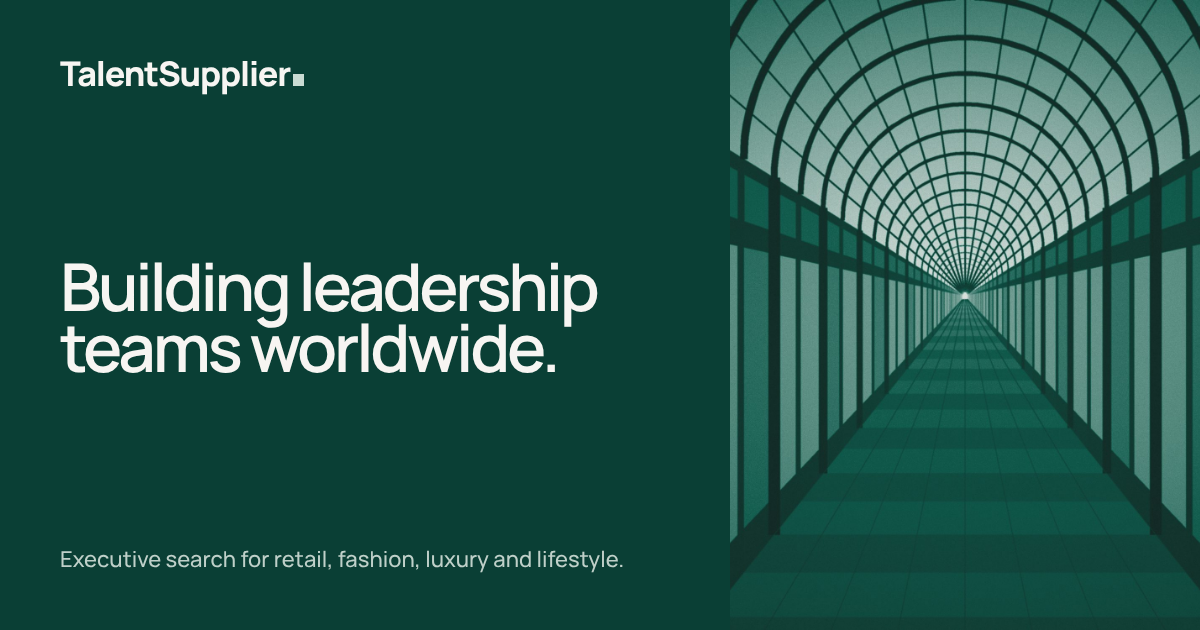
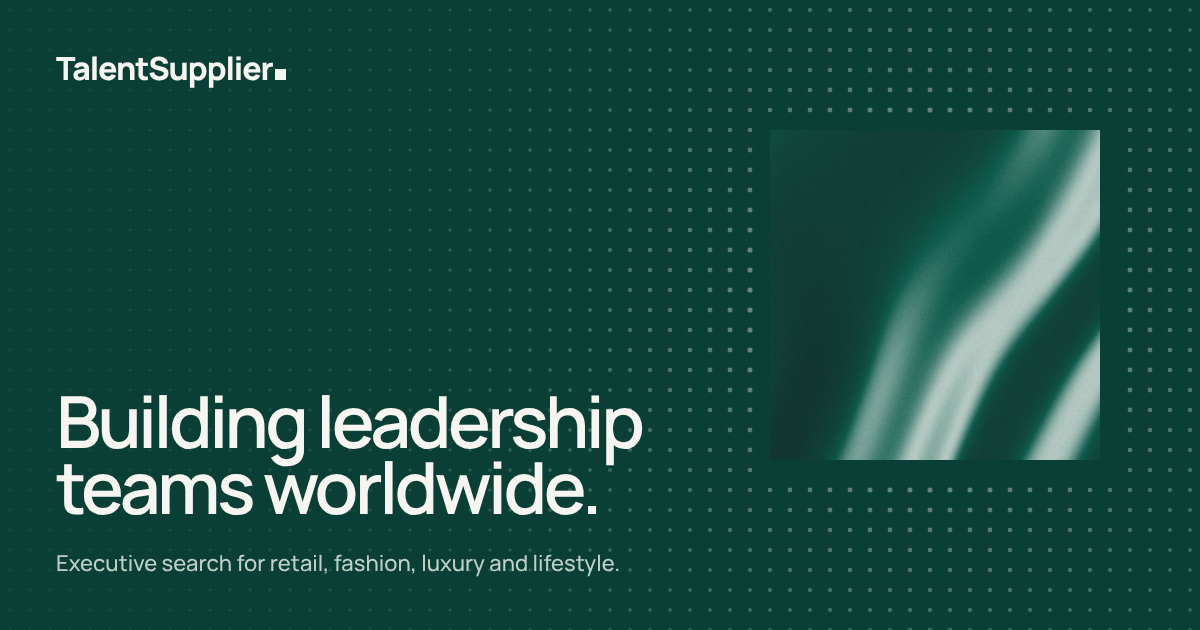
Hero: the market as a living field, one window that changes with every search; retire Arcade
- Hero panel is now the identity in motion: a field of points with a halo around the window,
  a search pulse every 5.2s, a pointer lens; the window opens onto Silk and rotates renders
- Arcade removed from the site (process tile, industries, services, insights, close row) and the OG card

Claude-Session: https://claude.ai/code/session_01Ls1K6zc5qZk9mayAcS37Nh

diff --git a/index.html b/index.html
@@ -20,23 +20,30 @@
 <link rel="preload" href="assets/fonts/manrope-latin-600-normal.woff2" as="font" type="font/woff2" crossorigin>
 <link rel="stylesheet" href="assets/site.css">
 <script>document.documentElement.classList.add('js')</script>
-<link rel="preload" href="assets/img/arcade-loop-poster.jpg" as="image">
+<link rel="preload" href="assets/img/silk-loop-poster.jpg" as="image">
 <script src="assets/map-data.js" defer></script>
 <style>
 /* ---------- hero: the view, and a column of chapters beside it ---------- */
 .hero{height:100svh;min-height:620px;display:grid;grid-template-columns:repeat(12,minmax(0,1fr));gap:10px;padding:10px}
-.hero .panel{grid-column:1/11;position:relative;overflow:hidden;background:var(--green);color:var(--on-dark);display:flex;flex-direction:column;justify-content:space-between;padding:26px 28px 32px}
-.hero .panel>video{position:absolute;inset:0;width:100%;height:100%;object-fit:cover;transform:scale(1.04);animation:drift 24s var(--ease-io) infinite alternate}
-@keyframes drift{to{transform:scale(1.12) translateY(-1.5%)}}
-.hero .panel::before{content:"";position:absolute;inset:0;background:rgba(8,26,22,.3);z-index:1;pointer-events:none}
-.hero .panel>*:not(video){position:relative;z-index:2}
+.hero .panel{grid-column:1/11;position:relative;overflow:hidden;background:var(--deep);color:var(--on-dark);display:flex;flex-direction:column;padding:26px 28px 32px}
+.hero .hfield{position:absolute;inset:0;width:100%;height:100%}
+.hero .panel>*:not(.hfield){position:relative;z-index:2}
 .hero .top{display:flex;justify-content:space-between;align-items:center}
 .hero .wm{font-size:20px}
 .hero .wm i{background:var(--paper)}
 .hero .clock{font-size:15px;font-weight:500;opacity:.85}
-.hero h1{font-size:clamp(44px,7.6vw,140px);letter-spacing:-.052em;line-height:.9;margin-top:-6vh}
+.hero .win{position:absolute!important;right:28px;top:84px;width:min(38%,52vh);aspect-ratio:1;margin:0;z-index:2}
+.hero .win .pane{position:absolute;inset:0;overflow:hidden;background:var(--green);transform-origin:50% 50%}
+.hero .win video,.hero .win img{position:absolute;inset:0;width:100%;height:100%;object-fit:cover;opacity:0;transform:scale(1.12);transition:opacity 1.2s var(--ease-io),transform 5.2s linear}
+.hero .win .on{opacity:1;transform:scale(1.02)}
+.hero .win figcaption{position:absolute;left:12px;top:10px;color:var(--paper);white-space:nowrap;z-index:2}
+.js .hero .win .pane{transform:scale(.025);transition:transform 1.5s var(--ease-io)}
+.js .hero .win figcaption{opacity:0;transition:opacity .8s .9s}
+.js .hero.open .win .pane{transform:none}
+.js .hero.open .win figcaption{opacity:1}
+.hero h1{font-size:clamp(44px,7.6vw,140px);letter-spacing:-.052em;line-height:.9;margin-top:auto}
 .hero h1 .ln{display:block;white-space:nowrap}
-.hero .pfoot{display:flex;justify-content:space-between;align-items:end;gap:32px}
+.hero .pfoot{display:flex;justify-content:space-between;align-items:end;gap:32px;margin-top:clamp(28px,5vh,56px)}
 .hero .pfoot p{max-width:30ch;font-size:18px;line-height:1.4;font-weight:500}
 .swatch{grid-column:11/13;display:grid;grid-template-rows:repeat(5,1fr);gap:0}
 .swatch a{display:flex;flex-direction:column;justify-content:space-between;padding:18px 18px 16px;text-decoration:none;position:relative;overflow:hidden}
@@ -53,8 +60,10 @@
 @keyframes drop{from{clip-path:inset(0 0 100% 0)}to{clip-path:inset(0)}}
 @media (max-width:900px){
   .hero{height:auto;min-height:0;display:block;padding:8px}
-  .hero .panel{height:68svh;min-height:440px;padding:18px 18px 22px}
-  .hero h1{font-size:clamp(34px,10.6vw,72px);margin-top:0}
+  .hero .panel{height:72svh;min-height:500px;padding:18px 18px 22px}
+  .hero .win{right:18px;top:64px;width:46%}
+  .hero .win .rf{display:none}
+  .hero h1{font-size:clamp(34px,10.6vw,72px)}
   .hero .pfoot{display:block}.hero .pfoot p{font-size:17px;margin-bottom:18px}
   .hero .pfoot .btn{width:100%}
   .swatch{display:block}
@@ -209,11 +218,19 @@
 <main id="main">
 <section class="hero" id="hero" data-c="paper" aria-label="Introduction">
   <div class="panel">
-    <video autoplay muted loop playsinline preload="auto" poster="assets/img/arcade-loop-poster.jpg" width="1280" height="800" aria-label="Moving slowly through a glass-roofed shopping arcade, shop windows lit on both sides"><source src="assets/video/arcade-loop.mp4" type="video/mp4"></video>
+    <canvas class="hfield" id="heroField" aria-hidden="true"></canvas>
     <div class="top">
       <a class="wm" href="index.html" aria-label="TalentSupplier, home">TalentSupplier<i aria-hidden="true"></i></a>
       <span class="clock tab" data-clock aria-hidden="true">Madrid</span>
     </div>
+    <figure class="win" id="heroWin"><div class="pane">
+      <video class="on" data-name="Silk" autoplay muted loop playsinline preload="auto" poster="assets/img/silk-loop-poster.jpg" width="1280" height="800" aria-label="Green silk moving slowly in the light, seen through a square window"><source src="assets/video/silk-loop.mp4" type="video/mp4"></video>
+      <img data-name="Vitrine" src="assets/img/vitrine.jpg" width="1200" height="1440" alt="" loading="lazy">
+      <img data-name="Curtain" src="assets/img/curtain.jpg" width="1200" height="1440" alt="" loading="lazy">
+      <img data-name="Marble" src="assets/img/marble.jpg" width="1800" height="1200" alt="" loading="lazy">
+      <img data-name="Herringbone" src="assets/img/herringbone.jpg" width="1800" height="1200" alt="" loading="lazy">
+      <figcaption class="cap"><span id="winName">Silk</span><span class="rf">, rendered for TalentSupplier</span></figcaption>
+    </div></figure>
     <h1><span class="ln">Building leadership</span><span class="ln">teams worldwide.</span></h1>
     <div class="pfoot">
       <p>We find the leaders who are not looking, and approach them in confidence.</p>
@@ -302,7 +319,7 @@
       <h3>Shortlist</h3><p>Assessed for experience, leadership, motivation and culture. Interviews, references and the offer, supported.</p>
     </div>
     <div class="st rv" style="--i:3">
-      <div class="tile c-ink"><canvas class="fld" data-n="520" data-keep="1" data-win=".74" data-at=".5,.5" data-dot="#F7F5F2" data-one="#0F5C4D" data-img="assets/img/arcade.jpg" data-seed="6" data-dur="2400" aria-hidden="true"></canvas></div>
+      <div class="tile c-ink"><canvas class="fld" data-n="520" data-keep="1" data-win=".74" data-at=".5,.5" data-dot="#F7F5F2" data-one="#0F5C4D" data-img="assets/img/vitrine.jpg" data-seed="6" data-dur="2400" aria-hidden="true"></canvas></div>
       <h3>Appoint</h3><p>One leader in the role, and our support through integration and beyond.</p>
     </div>
   </div>
@@ -347,7 +364,7 @@
 </section>
 
 <section class="act-row" data-c="paper" aria-labelledby="closeTitle">
-  <div class="fl ph"><video autoplay muted loop playsinline preload="none" poster="assets/img/silk-loop-poster.jpg" width="1280" height="800" aria-hidden="true"><source src="assets/video/silk-loop.mp4" type="video/mp4"></video></div>
+  <div class="fl ph"><img src="assets/img/marble.jpg" width="1800" height="1200" alt="" loading="lazy"></div>
   <div class="mid c-green">
     <h2 id="closeTitle" class="rv">Your next leader is not looking.</h2>
     <div class="row">

diff --git a/assets/site.js b/assets/site.js
@@ -122,6 +122,54 @@
   }
   $$('canvas.fld').forEach(function(cv){var f=new Field(cv); if(io){io.observe(cv);} });
 
+  /* ---------- the hero: the market as a living field; one point opens into the window ----------
+     Points arrive in a wave from the window, settle into a halo around it, and a search pulse
+     leaves the window every few seconds. The pointer is a lens: points near it wake up. */
+  var hf=$('#heroField'), hero=$('#hero'), hw=$('#heroWin');
+  if(hf&&hero&&hw){
+    var hc=hf.getContext('2d'), HW=0,HH=0,hd=1, P=[], wx=0,wy=0,wr=null, mx=-1e4,my=-1e4, t0=performance.now(), live=true, raf2=0;
+    function hbuild(){
+      var r=hf.getBoundingClientRect(); HW=r.width; HH=r.height; hd=Math.min(2,devicePixelRatio||1);
+      hf.width=Math.round(HW*hd); hf.height=Math.round(HH*hd);
+      var pr=hero.querySelector('.panel').getBoundingClientRect(), b=hw.getBoundingClientRect();
+      wr={x:b.left-pr.left,y:b.top-pr.top,w:b.width,h:b.height}; wx=wr.x+wr.w/2; wy=wr.y+wr.h/2;
+      var s=HW<700?15:19, cols=Math.ceil(HW/s), rows=Math.ceil(HH/s), maxd=Math.hypot(Math.max(wx,HW-wx),Math.max(wy,HH-wy));
+      P=[]; for(var y=0;y<rows;y++)for(var x=0;x<cols;x++){var px=(x+.5)*s,py=(y+.5)*s;
+        if(px>wr.x-6&&px<wr.x+wr.w+6&&py>wr.y-6&&py<wr.y+wr.h+6) continue;
+        var dd=Math.hypot(px-wx,py-wy)/maxd; P.push({x:px,y:py,d:dd,j:Math.random()});}
+      hs=s;
+    }
+    var hs=19;
+    function hdraw(now){
+      var t=(now-t0)/1000; hc.setTransform(hd,0,0,hd,0,0); hc.clearRect(0,0,HW,HH);
+      var wave=reduce?9:t*0.9, pulse=reduce?-1:((t-1.6)%5.2)/5.2*1.25, r0=Math.max(1,hs*.075);
+      hc.fillStyle='#CADBD3';
+      for(var i=0;i<P.length;i++){
+        var p=P[i]; if(p.d>wave) continue;
+        var arrive=Math.min(1,(wave-p.d)*5);
+        var near=Math.pow(1-p.d,3), a=.08+.7*near;              // halo: the search is densest near the one
+        var pd=Math.abs(p.d-pulse); if(pulse>0&&pd<.06) a+=.45*(1-pd/.06);  // the pulse passing
+        var ld=Math.hypot(p.x-mx,p.y-my), lens=ld<140?1-ld/140:0;          // the pointer's lens
+        a=Math.min(.95,a+lens*.6)*arrive;
+        var r=r0*(1+near*1.1+lens*1.3+(arrive<1?(1-arrive)*1.5:0));
+        hc.globalAlpha=a; hc.beginPath(); hc.arc(p.x,p.y,r,0,6.2832); hc.fill();
+      }
+      hc.globalAlpha=1;
+      if(!reduce&&live) raf2=requestAnimationFrame(hdraw);
+    }
+    hbuild();
+    // every pulse is a new search: the window changes what it shows
+    var shots=$$('.pane > video, .pane > img',hw), wn=$('#winName'), si=0;
+    if(!reduce&&shots.length>1){setTimeout(function(){setInterval(function(){if(!live) return; shots[si].classList.remove('on'); si=(si+1)%shots.length; shots[si].classList.add('on'); if(wn) wn.textContent=shots[si].getAttribute('data-name');},5200);},1600);}
+    if(reduce){hero.classList.add('open'); hdraw(performance.now());}
+    else{ raf2=requestAnimationFrame(hdraw); setTimeout(function(){hero.classList.add('open');},900); }
+    hero.addEventListener('pointermove',function(e){var r=hf.getBoundingClientRect(); mx=e.clientX-r.left; my=e.clientY-r.top;});
+    hero.addEventListener('pointerleave',function(){mx=my=-1e4;});
+    addEventListener('resize',function(){hbuild(); if(reduce) hdraw(performance.now());});
+    if('IntersectionObserver' in window&&!reduce){new IntersectionObserver(function(es){live=es[0].isIntersecting&&!document.hidden; cancelAnimationFrame(raf2); if(live) raf2=requestAnimationFrame(hdraw);}).observe(hero);}
+    document.addEventListener('visibilitychange',function(){live=!document.hidden; cancelAnimationFrame(raf2); if(live&&!reduce) raf2=requestAnimationFrame(hdraw);});
+  }
+
   /* ---------- who do you need: choose a role, watch the field narrow, start the brief ---------- */
   var roles=$$('.role'), brief=$('#brief'), bt=$('#briefText'), bm=$('#briefMail'), rf=$('#roleField');
   if(roles.length&&brief){

diff --git a/services.html b/services.html
@@ -99,7 +99,7 @@
 
 <section class="svc wrap c-paper" data-c="paper" aria-label="What we do">
   <div class="stage" aria-hidden="true">
-    <figure class="on"><img src="assets/img/arcade.jpg" width="2400" height="1500" alt="" loading="lazy"><figcaption class="cap">Arcade</figcaption></figure>
+    <figure class="on"><img src="assets/img/herringbone.jpg" width="1800" height="1200" alt="" loading="lazy"><figcaption class="cap">Herringbone</figcaption></figure>
     <figure><img src="assets/img/facade.jpg" width="2100" height="1400" alt="" loading="lazy"><figcaption class="cap">Facade</figcaption></figure>
     <figure><img src="assets/img/vitrine.jpg" width="1200" height="1440" alt="" loading="lazy"><figcaption class="cap">Vitrine</figcaption></figure>
     <figure><img src="assets/img/silk.jpg" width="1800" height="1200" alt="" loading="lazy"><figcaption class="cap">Silk</figcaption></figure>
@@ -132,7 +132,7 @@
 </section>
 
 <section class="act-row" data-c="paper" aria-labelledby="closeTitle">
-  <div class="fl ph"><video autoplay muted loop playsinline preload="none" poster="assets/img/silk-loop-poster.jpg" width="1280" height="800" aria-hidden="true"><source src="assets/video/silk-loop.mp4" type="video/mp4"></video></div>
+  <div class="fl ph"><img src="assets/img/marble.jpg" width="1800" height="1200" alt="" loading="lazy"></div>
   <div class="mid c-green">
     <h2 id="closeTitle" class="rv">Your next leader is not looking.</h2>
     <div class="row">

diff --git a/industries.html b/industries.html
@@ -86,7 +86,7 @@
 
 <section class="pair" data-c="stone" aria-label="Core expertise">
   <div class="p c-stone">
-    <div class="ph lift"><img src="assets/img/arcade.jpg" width="2400" height="1500" alt="A glass-roofed shopping arcade, shop windows on both sides" loading="lazy"></div>
+    <div class="ph lift"><img src="assets/img/curtain.jpg" width="1200" height="1440" alt="A pleated green curtain lit from behind a shop window" loading="lazy"></div>
     <h2 class="rv">Retail and lifestyle</h2>
     <div class="row rv"><p><b>Core expertise</b>Store, area and regional leadership at flagship standard, for brands that live on their floor.</p><span>Skechers, Mountain Warehouse, VFL</span></div>
   </div>
@@ -121,7 +121,7 @@
 </section>
 
 <section class="act-row" data-c="paper" aria-labelledby="closeTitle">
-  <div class="fl ph"><video autoplay muted loop playsinline preload="none" poster="assets/img/silk-loop-poster.jpg" width="1280" height="800" aria-hidden="true"><source src="assets/video/silk-loop.mp4" type="video/mp4"></video></div>
+  <div class="fl ph"><img src="assets/img/marble.jpg" width="1800" height="1200" alt="" loading="lazy"></div>
   <div class="mid c-green">
     <h2 id="closeTitle" class="rv">Your next leader is not looking.</h2>
     <div class="row">

diff --git a/journal.html b/journal.html
@@ -78,7 +78,7 @@
 
 <section class="essays wrap c-paper" data-c="paper" aria-label="Essays in preparation">
   <article class="rv">
-    <div class="ph lift"><img src="assets/img/arcade.jpg" width="2400" height="1500" alt="" loading="lazy"></div>
+    <div class="ph lift"><img src="assets/img/facade.jpg" width="2100" height="1400" alt="" loading="lazy"></div>
     <div class="t"><h2>The invisible talent market</h2><p>In retail, fashion and luxury, the people a brand needs are almost never in the visible market. Hiring from adverts and databases is fishing on the surface.</p><p class="st"><i aria-hidden="true"></i>In preparation</p></div>
   </article>
   <article class="rv">
@@ -96,7 +96,7 @@
 </section>
 
 <section class="act-row" data-c="paper" aria-labelledby="closeTitle">
-  <div class="fl ph"><video autoplay muted loop playsinline preload="none" poster="assets/img/silk-loop-poster.jpg" width="1280" height="800" aria-hidden="true"><source src="assets/video/silk-loop.mp4" type="video/mp4"></video></div>
+  <div class="fl ph"><img src="assets/img/marble.jpg" width="1800" height="1200" alt="" loading="lazy"></div>
   <div class="mid c-green">
     <h2 id="closeTitle" class="rv">Your next leader is not looking.</h2>
     <div class="row">

diff --git a/about.html b/about.html
@@ -117,7 +117,7 @@
 </section>
 
 <section class="act-row" data-c="paper" aria-labelledby="closeTitle">
-  <div class="fl ph"><video autoplay muted loop playsinline preload="none" poster="assets/img/silk-loop-poster.jpg" width="1280" height="800" aria-hidden="true"><source src="assets/video/silk-loop.mp4" type="video/mp4"></video></div>
+  <div class="fl ph"><img src="assets/img/marble.jpg" width="1800" height="1200" alt="" loading="lazy"></div>
   <div class="mid c-green">
     <h2 id="closeTitle" class="rv">Your next leader is not looking.</h2>
     <div class="row">

diff --git a/legal-notice.html b/legal-notice.html
@@ -68,7 +68,7 @@
 </section>
 
 <section class="act-row" data-c="paper" aria-labelledby="closeTitle">
-  <div class="fl ph"><video autoplay muted loop playsinline preload="none" poster="assets/img/silk-loop-poster.jpg" width="1280" height="800" aria-hidden="true"><source src="assets/video/silk-loop.mp4" type="video/mp4"></video></div>
+  <div class="fl ph"><img src="assets/img/marble.jpg" width="1800" height="1200" alt="" loading="lazy"></div>
   <div class="mid c-green">
     <h2 id="closeTitle" class="rv">Your next leader is not looking.</h2>
     <div class="row">

diff --git a/privacy-policy.html b/privacy-policy.html
@@ -71,7 +71,7 @@
 </section>
 
 <section class="act-row" data-c="paper" aria-labelledby="closeTitle">
-  <div class="fl ph"><video autoplay muted loop playsinline preload="none" poster="assets/img/silk-loop-poster.jpg" width="1280" height="800" aria-hidden="true"><source src="assets/video/silk-loop.mp4" type="video/mp4"></video></div>
+  <div class="fl ph"><img src="assets/img/marble.jpg" width="1800" height="1200" alt="" loading="lazy"></div>
   <div class="mid c-green">
     <h2 id="closeTitle" class="rv">Your next leader is not looking.</h2>
     <div class="row">
